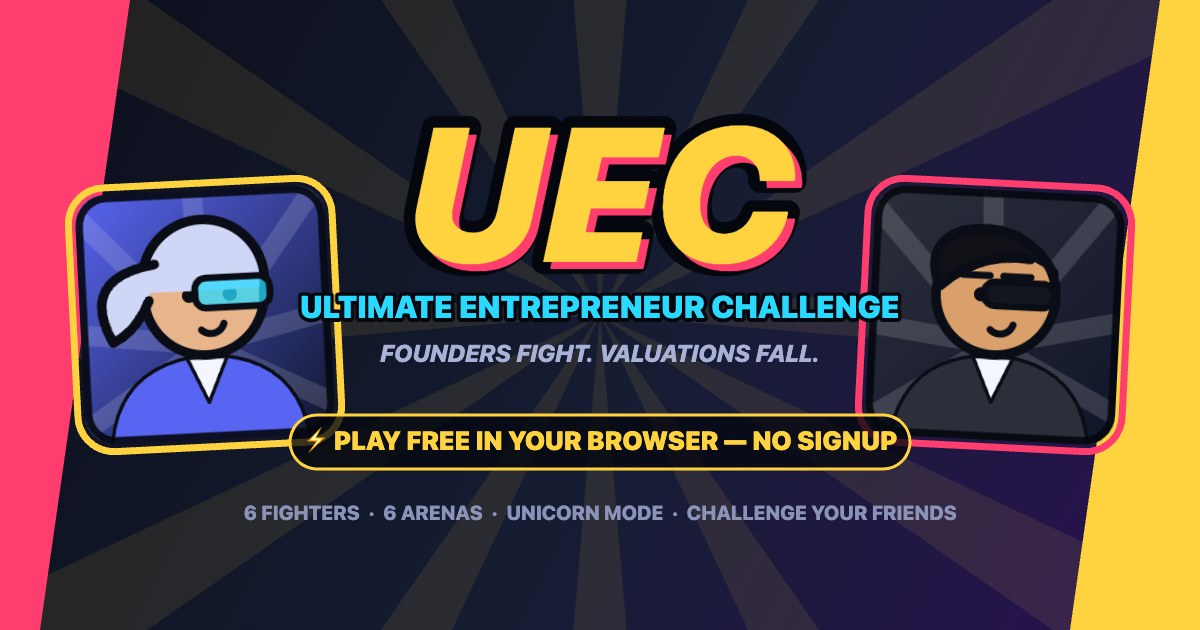
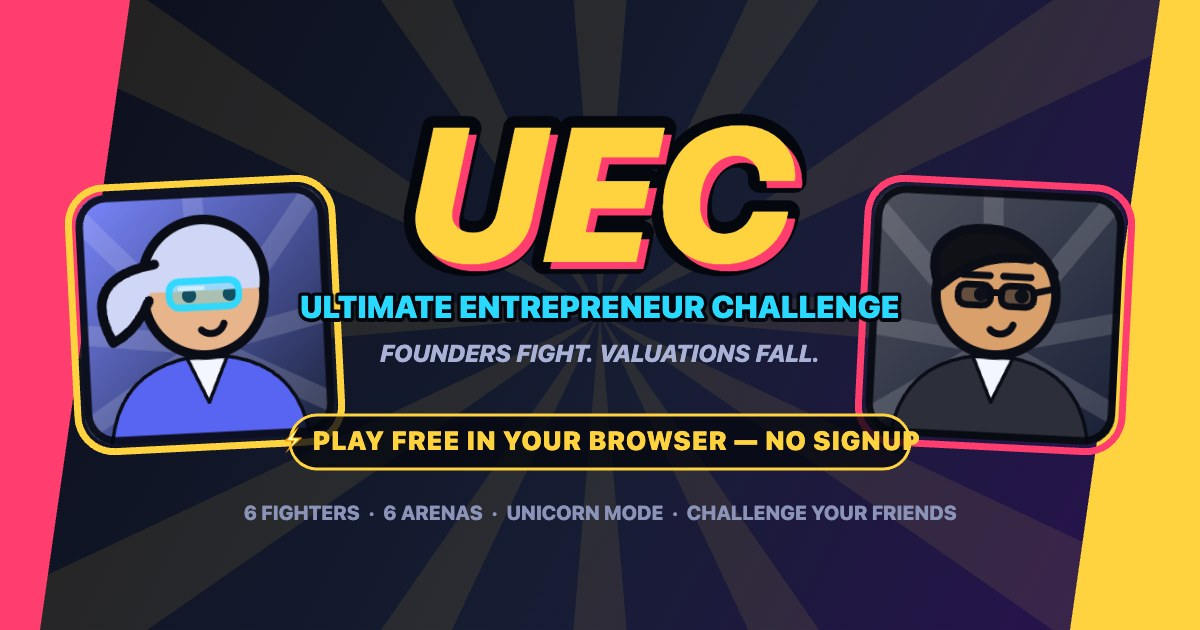
Face readability pass + narrow-screen HUD fix
- Dex's shades: two slim translucent lenses (brows/eyes visible) instead of a
  solid band that read as a blindfold; Ava's visor now translucent with a glint
- portrait backdrops lifted so dark suits read against the dark UI
- regenerated og-image.jpg and README action shots with the new faces
- HUD: company chips hidden under 480px (timer no longer overlaps names)
- energy hints say 'tap ⚡/🦄' on touch devices instead of keyboard keys

diff --git a/src/engine/drawFighter.js b/src/engine/drawFighter.js
@@ -2,6 +2,8 @@
 // hairstyles, faces (or an uploaded photo as the face), and comic outlines.
 // Also renders the portrait busts used across the UI.
 
+import { shade } from '../data/fighters.js';
+
 const OUTLINE = '#0a0c16';
 const FILTER_OK = typeof CanvasRenderingContext2D !== 'undefined' && 'filter' in CanvasRenderingContext2D.prototype;
 
@@ -250,11 +252,16 @@ function drawAccessory(ctx, cx, cy, r, def) {
   const c = def.c;
   const a = def.accessory;
   if (a === 'visor') {
-    ctx.fillStyle = 'rgba(41,217,255,0.75)';
-    ctx.strokeStyle = OUTLINE; ctx.lineWidth = 2.5;
+    // translucent AR visor — eyes stay visible through the tint
+    ctx.fillStyle = 'rgba(41,217,255,0.32)';
+    ctx.strokeStyle = 'rgba(41,217,255,0.95)';
+    ctx.lineWidth = 2.5;
     ctx.beginPath();
-    ctx.roundRect(cx - r * 0.15, cy - r * 0.28, r * 1.25, r * 0.5, 4);
+    ctx.roundRect(cx - r * 0.58, cy - r * 0.24, r * 1.16, r * 0.44, r * 0.17);
     ctx.fill(); ctx.stroke();
+    ctx.strokeStyle = 'rgba(255,255,255,0.55)';
+    ctx.lineWidth = 1.6;
+    ctx.beginPath(); ctx.moveTo(cx - r * 0.4, cy - r * 0.12); ctx.lineTo(cx - r * 0.02, cy - r * 0.12); ctx.stroke();
   } else if (a === 'glasses') {
     ctx.strokeStyle = OUTLINE; ctx.lineWidth = 2.5;
     ctx.fillStyle = 'rgba(255,255,255,0.14)';
@@ -262,11 +269,16 @@ function drawAccessory(ctx, cx, cy, r, def) {
       ctx.beginPath(); ctx.roundRect(cx - r * 0.28 + r * s, cy - r * 0.18, r * 0.42, r * 0.36, 3); ctx.fill(); ctx.stroke();
     }
   } else if (a === 'shades') {
-    ctx.fillStyle = '#14161f';
+    // two slim tinted lenses — brows above, eyes faintly visible through
     ctx.strokeStyle = OUTLINE; ctx.lineWidth = 2.5;
-    ctx.beginPath();
-    ctx.roundRect(cx - r * 0.2, cy - r * 0.22, r * 1.16, r * 0.4, 4);
-    ctx.fill(); ctx.stroke();
+    ctx.fillStyle = 'rgba(16,18,28,0.58)';
+    for (const s of [-1, 1]) {
+      ctx.beginPath();
+      ctx.roundRect(cx + s * r * 0.36 - r * 0.27, cy - r * 0.16, r * 0.54, r * 0.34, r * 0.13);
+      ctx.fill(); ctx.stroke();
+    }
+    ctx.beginPath(); ctx.moveTo(cx - r * 0.1, cy - r * 0.04); ctx.lineTo(cx + r * 0.1, cy - r * 0.04); ctx.stroke();
+    ctx.beginPath(); ctx.moveTo(cx + r * 0.63, cy - r * 0.06); ctx.lineTo(cx + r * 0.94, cy - r * 0.14); ctx.stroke();
   } else if (a === 'stubble') {
     ctx.fillStyle = 'rgba(30,30,40,0.25)';
     ctx.beginPath(); ctx.arc(cx, cy + r * 0.5, r * 0.55, 0, Math.PI); ctx.fill();
@@ -434,10 +446,10 @@ export function drawPortrait(canvas, def, opts = {}) {
   const S = canvas.width;
   const k = S / 100;
   ctx.clearRect(0, 0, S, S);
-  // backdrop
+  // backdrop — lifted so dark suits still read against dark UI
   const g = ctx.createLinearGradient(0, 0, S, S);
-  g.addColorStop(0, def.c.suit);
-  g.addColorStop(1, '#10152a');
+  g.addColorStop(0, shade(def.c.suit, 34));
+  g.addColorStop(1, '#1a2138');
   ctx.fillStyle = g;
   ctx.beginPath(); ctx.roundRect(0, 0, S, S, 12 * k); ctx.fill();
   // burst rays

diff --git a/src/engine/game.js b/src/engine/game.js
@@ -5,6 +5,7 @@ import { STAGE, PHYS, ROUND, METER, BLOCK, UNICORN } from '../config.js';
 import { Fighter } from './fighter.js';
 import { FXSystem } from './fx.js';
 import { audio } from './audio.js';
+import { isTouchDevice } from './input.js';
 
 function overlap(a, b) {
   return a.x < b.x + b.w && a.x + a.w > b.x && a.y < b.y + b.h && a.y + a.h > b.y;
@@ -358,13 +359,18 @@ export class Game {
     if (this.mode !== 'solo') return;
     const f = this.fighters[0];
     if (!f.controller.isHuman) return;
+    const touch = isTouchDevice();
     if (!this.hintFlags.special && f.energy >= METER.SPECIAL_COST) {
       this.hintFlags.special = true;
-      this.hud.hint(`⚡ SPECIAL READY — press L (or B) for ${f.special.name}`);
+      this.hud.hint(touch
+        ? `⚡ SPECIAL READY — tap ⚡ for ${f.special.name}`
+        : `⚡ SPECIAL READY — press L (or B) for ${f.special.name}`);
     }
     if (!this.hintFlags.super && f.energy >= METER.SUPER_COST) {
       this.hintFlags.super = true;
-      this.hud.hint('🦄 FULL METER — press U (or G) for UNICORN MODE');
+      this.hud.hint(touch
+        ? '🦄 FULL METER — tap 🦄 for UNICORN MODE'
+        : '🦄 FULL METER — press U (or G) for UNICORN MODE');
     }
   }
 

diff --git a/styles.css b/styles.css
@@ -591,3 +591,9 @@ label.btn { display: inline-block; }
   /* portrait phones: stage up top, thumbs get the bottom */
   .screen-fight { justify-content: flex-start; padding-top: max(8px, env(safe-area-inset-top)); }
 }
+
+@media (max-width: 480px) {
+  /* very narrow: drop company chips so names never collide with the timer */
+  .hud-co { display: none; }
+  .hud-center { min-width: 50px; }
+}